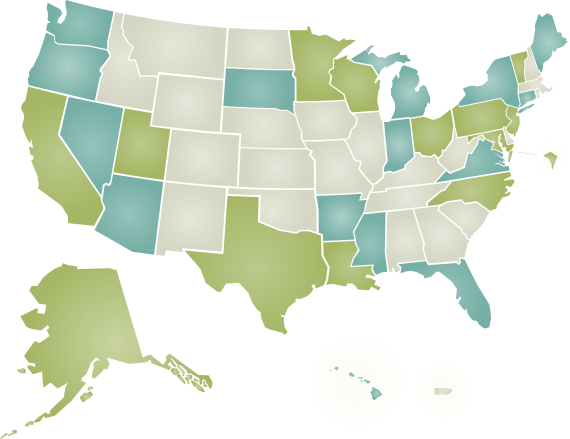
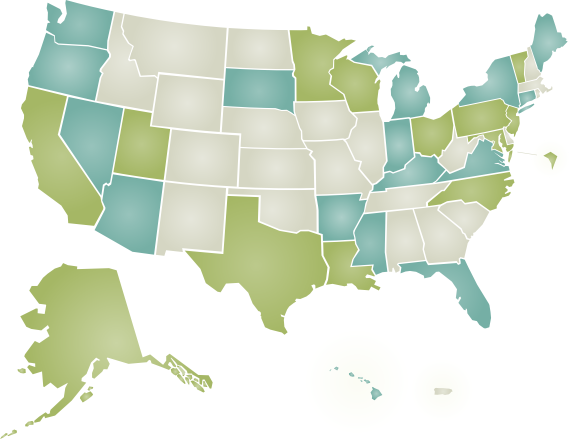
add Kentucky

Changed region(s): [[0.6561, 0.3554, 0.7754, 0.4442]]

diff --git a/templates/status.html b/templates/status.html
@@ -5,7 +5,7 @@
 {% block content %}
 <h2>Project Status</h2>
 
-<p> As of May 31st, 2011 we have data for 28 states and the District of Columbia.  </p> 
+<p> As of May 31st, 2011 we have data for 29 states and the District of Columbia.  </p> 
 
 <p> States are denoted as either "ready" or "experimental" depending on how
 reliable the source data is and how thoroughly we've vetted and cleaned up the
@@ -37,7 +37,7 @@ New Jersey, North Carolina, Ohio, Pennsylvania, Texas, Utah, Vermont, and Wiscon
 
 <h4> Experimental States </h4>
 <p> Experimental states (in blue) are those that we support but have not yet promoted to ready
-status.  Arkansas, Arizona, Connecticut, Florida, Hawaii, Indiana, Maine, Michigan, Mississippi,
+status.  Arkansas, Arizona, Connecticut, Florida, Hawaii, Indiana, Kentucky, Maine, Michigan, Mississippi,
 Nevada, New York, Oregon, South Dakota, Virginia, Washington and Washington DC fall in this category.
 </p>
 

diff --git a/templates/index.html b/templates/index.html
@@ -37,7 +37,7 @@
                         Open States Project Status
                     </h3>
                     <p>
-                        We currently have data available for 28 states (and DC).  If your state isn't available yet learn how to <a href="/contributing/">contribute.</a>
+                        We currently have data available for 29 states (and DC).  If your state isn't available yet learn how to <a href="/contributing/">contribute.</a>
                     </p>
                 </div>
                 <div class="map-key">
